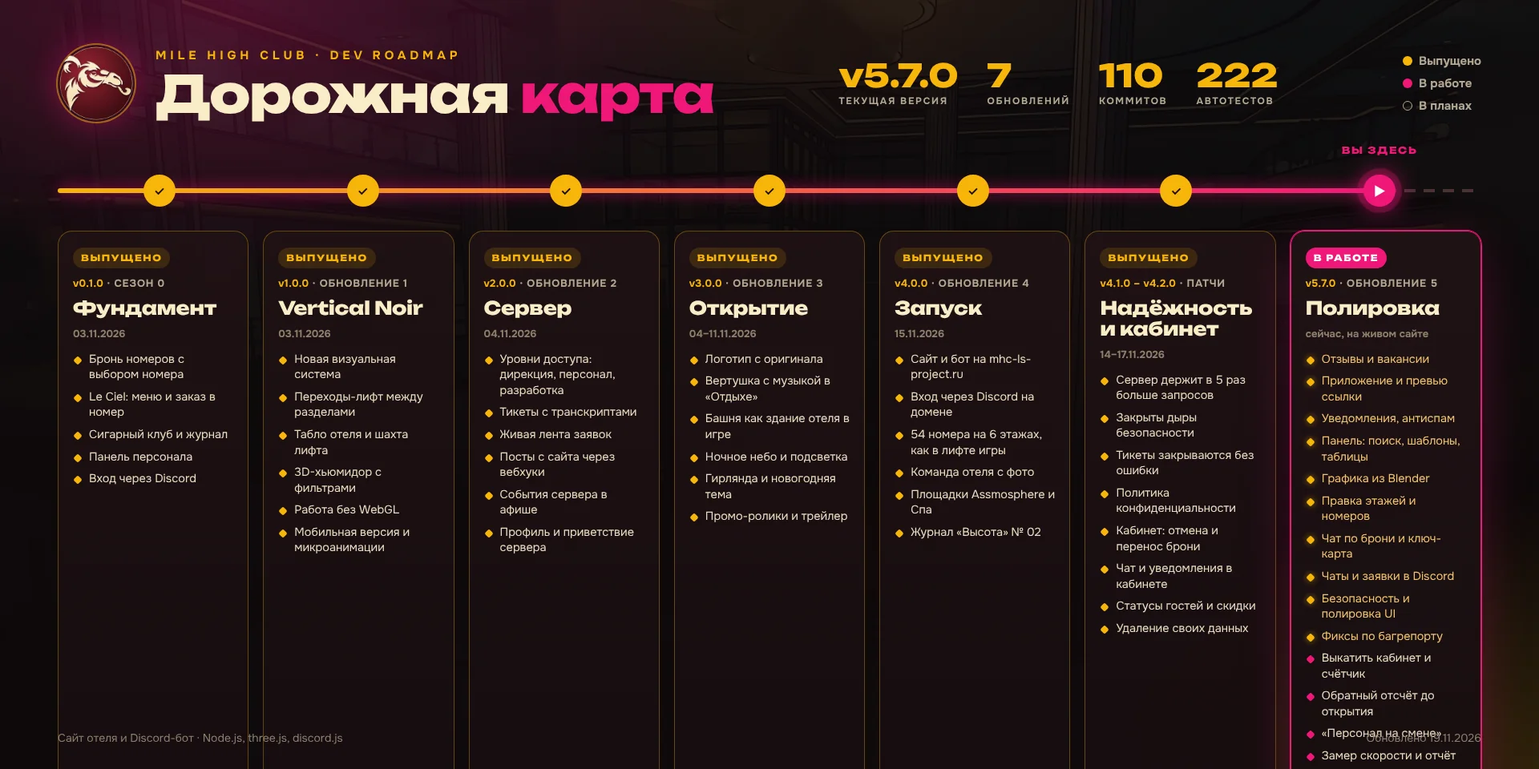
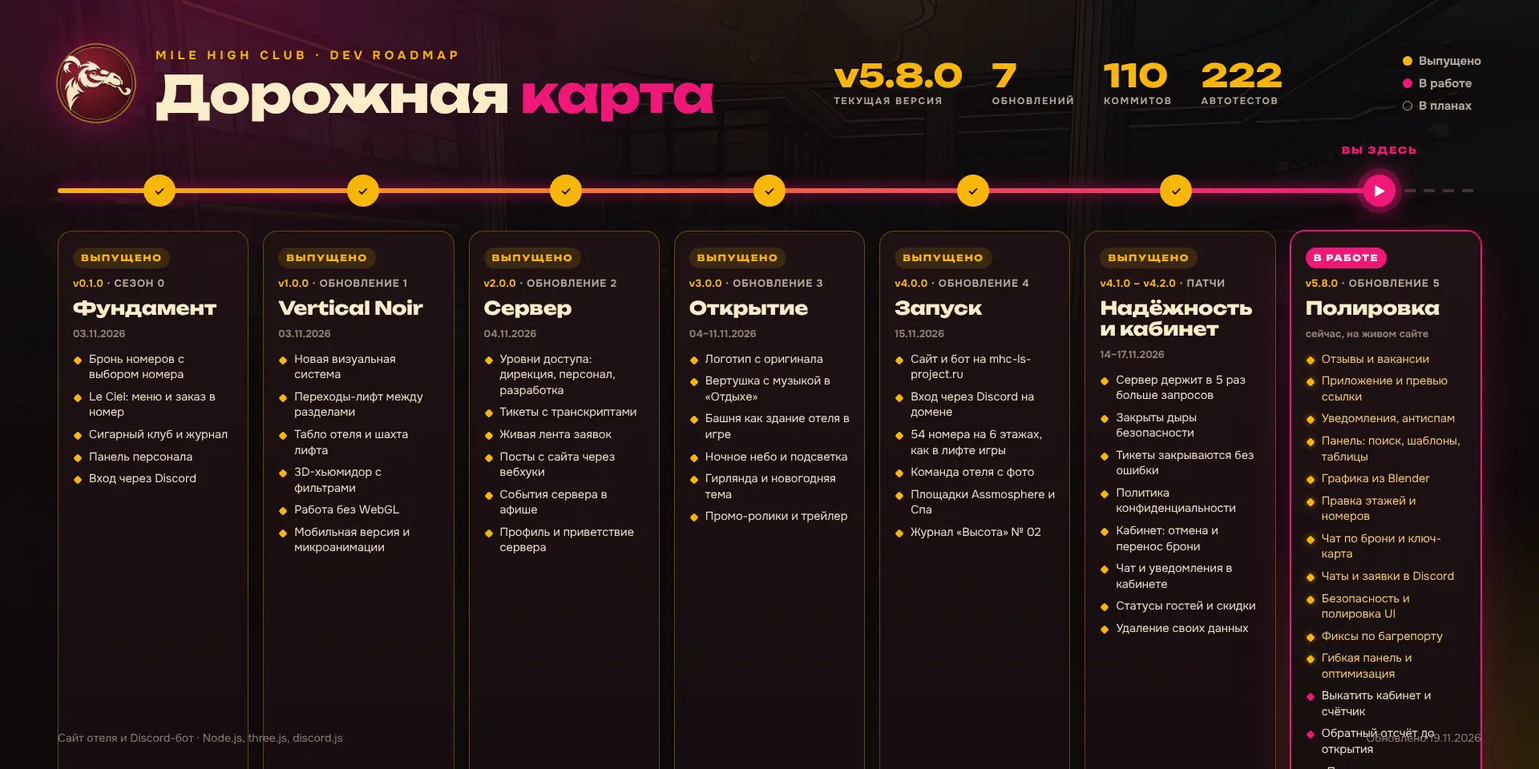
v5.8.0: доска в двух видах, окошки сайта в настройках, оптимизация загрузки
- Доска номеров: переключатель «По этажам / Колонки по статусу». Второй вид —
  изначальный канбан: карточки номеров перетаскиваются между колонками статусов,
  статус можно сменить и списком на карточке. Выбранный вид запоминается у
  администратора (localStorage).
- Настройки: администратор включает/выключает окошки сайта — погоду с
  температурой, счётчик гостей онлайн и «Свободно» в шапке. Выключенное окошко
  скрывается, данные сохраняются (новое поле settings.widgets, в PUBLIC_SETTINGS).
- Оптимизация: three.js больше не грузится на разделах без 3D (−132 КБ на Le Ciel,
  отдыхе, кабинете и др.); на главной атриум запрашивается один раз вместо двух
  (убран лишний crossOrigin у текстуры hero3d, −329 КБ).
- Тест на widgets; версия 5.8.0, README, CHANGELOG, дорожная карта.

diff --git a/public/js/admin.js b/public/js/admin.js
@@ -175,8 +175,13 @@ function bookingChat(b) {
 // «Выбрать несколько» — смена статуса сразу у группы (например, после уборки всего этажа).
 const RSC = { free: 'var(--gold)', booked: 'var(--pink)', occupied: 'var(--violet)', cleaning: '#7fb6a8', repair: 'var(--mut)' };
 let bSel = new Set(), bMulti = false, bOpen = null;
+// Вид доски запоминается у администратора в браузере: 'floors' — по этажам (шахматка), 'kanban' — колонки по статусу (как было изначально).
+function boardStyle() { try { return localStorage.getItem('mhc:boardStyle') === 'kanban' ? 'kanban' : 'floors'; } catch { return 'floors'; } }
+function setBoardStyle(v) { try { localStorage.setItem('mhc:boardStyle', v === 'kanban' ? 'kanban' : 'floors'); } catch {} }
 function board(m) {
   const T = Object.fromEntries(A.types.map(t => [t.id, t.name])), ft = sel.boardType || '', fs = sel.boardStatus || '';
+  const style = boardStyle(), kb = style === 'kanban';
+  if (kb) { bMulti = false; bOpen = null; }
   const rooms = A.rooms.filter(r => (!ft || r.type === ft));
   const shown = r => !fs || r.status === fs;
   const floors = [...new Set(rooms.map(r => r.floor))].sort((a, b) => b - a);
@@ -185,19 +190,28 @@ function board(m) {
   const SH = (() => { const used = new Set(), out = {}; for (const t of A.types) { const w = t.name.split(/[\s-]+/).filter(Boolean), c = [w.map(x => x[0]).join('').slice(0, 2).toUpperCase(), (w[0] || '').slice(0, 2), (w[0] || '').slice(0, 3), t.id.slice(0, 3)].map(x => x.charAt(0).toUpperCase() + x.slice(1)); out[t.id] = c.find(x => x && !used.has(x)) || t.id; used.add(out[t.id]); } return out; })();
   const short = id => SH[id] || id;
   bSel = new Set([...bSel].filter(id => A.rooms.some(r => r.id === id)));
-  m.innerHTML = head('Доска номеров', `${isAdmin() ? '<button class="btn sm ghost" id="bStruct">Этажи и номера</button>' : ''}<select class="inp" id="bt" style="width:190px"><option value="">Все типы</option>${A.types.map(t => `<option value="${esc(t.id)}" ${t.id === ft ? 'selected' : ''}>${esc(t.name)}</option>`).join('')}</select><button class="btn sm ${bMulti ? '' : 'ghost'}" id="bMulti">${bMulti ? 'Готово' : 'Выбрать несколько'}</button>`,
-    'Нажмите на номер, чтобы сменить статус и увидеть гостя. Номер можно перетащить на нужный статус в строке сверху. Бот в Discord сразу обновит свободные номера.') +
-    `<div class="bst" role="group" aria-label="Фильтр по статусу"><button class="bst-i ${!fs ? 'on' : ''}" data-fs=""><b class="num">${rooms.length}</b><span>Все</span></button>${Object.entries(ROOM_STATUS).map(([k, n]) => `<button class="bst-i ${fs === k ? 'on' : ''}" data-fs="${k}" data-drop="${k}" style="--sc:${RSC[k]}"><i></i><b class="num">${cnt(k)}</b><span>${n}</span></button>`).join('')}</div>
+  const styleToggle = `<div class="seg bstyle" role="group" aria-label="Вид доски"><button data-bs="floors" aria-pressed="${!kb}">По этажам</button><button data-bs="kanban" aria-pressed="${kb}">Колонки по статусу</button></div>`;
+  m.innerHTML = head('Доска номеров', `${styleToggle}${isAdmin() ? '<button class="btn sm ghost" id="bStruct">Этажи и номера</button>' : ''}<select class="inp" id="bt" style="width:190px"><option value="">Все типы</option>${A.types.map(t => `<option value="${esc(t.id)}" ${t.id === ft ? 'selected' : ''}>${esc(t.name)}</option>`).join('')}</select>${kb ? '' : `<button class="btn sm ${bMulti ? '' : 'ghost'}" id="bMulti">${bMulti ? 'Готово' : 'Выбрать несколько'}</button>`}`,
+    kb ? 'Перетащите карточку номера в другую колонку или смените статус в списке на карточке. Бот в Discord сразу обновит свободные номера.'
+       : 'Нажмите на номер, чтобы сменить статус и увидеть гостя. Номер можно перетащить на нужный статус в строке сверху. Бот в Discord сразу обновит свободные номера.') +
+    (kb
+      ? `<div class="kanban">${Object.entries(ROOM_STATUS).map(([k, n]) => { const rs = rooms.filter(r => r.status === k).sort((a, b) => String(a.id).localeCompare(String(b.id), 'ru', { numeric: true }));
+          return `<div class="col" data-drop="${k}" style="--sc:${RSC[k]}"><h4><span>${n}</span><span class="num">${rs.length}</span></h4>${rs.map(r => `<div class="rc" draggable="true" data-id="${esc(r.id)}"><b>${esc(r.id)}</b><span class="note">${esc(T[r.type] || r.type)}${r.guest ? ' · ' + esc(r.guest) : ''}</span><select class="inp sm" data-id="${esc(r.id)}" aria-label="Статус номера ${esc(r.id)}">${Object.entries(ROOM_STATUS).map(([s, sn]) => `<option value="${s}" ${s === k ? 'selected' : ''}>${sn}</option>`).join('')}</select></div>`).join('') || '<p class="note" style="margin:.2rem .3rem 0">—</p>'}</div>`; }).join('')}</div>`
+      : `<div class="bst" role="group" aria-label="Фильтр по статусу"><button class="bst-i ${!fs ? 'on' : ''}" data-fs=""><b class="num">${rooms.length}</b><span>Все</span></button>${Object.entries(ROOM_STATUS).map(([k, n]) => `<button class="bst-i ${fs === k ? 'on' : ''}" data-fs="${k}" data-drop="${k}" style="--sc:${RSC[k]}"><i></i><b class="num">${cnt(k)}</b><span>${n}</span></button>`).join('')}</div>
     ${bMulti ? `<div class="bbulk"><span><b class="num">${bSel.size}</b> выбрано</span>${Object.entries(ROOM_STATUS).map(([k, n]) => `<button class="btn sm ghost" data-bulk="${k}" ${bSel.size ? '' : 'disabled'} style="--sc:${RSC[k]}"><i class="dot"></i>${n}</button>`).join('')}<button class="btn sm ghost" id="bAll">Выбрать видимые</button><button class="btn sm ghost" id="bNone" ${bSel.size ? '' : 'disabled'}>Снять</button></div>` : ''}
     <div class="chess ${bMulti ? 'multi' : ''}">${floors.map(f => { const fr = rooms.filter(r => r.floor === f).sort((a, b) => String(a.id).localeCompare(String(b.id), 'ru', { numeric: true })), free = fr.filter(r => r.status === 'free').length;
-      return `<div class="cf"><div class="cf-h"><b class="num">${f}</b><span>этаж</span><small>${esc(roomGameFloor(A.rooms, f))}</small><small class="num">${free}/${fr.length} св.</small></div><div class="cf-r">${fr.map(r => `<button class="ch ${shown(r) ? '' : 'dim'} ${bSel.has(r.id) ? 'sel' : ''} ${bOpen === r.id ? 'open' : ''}" draggable="true" data-id="${esc(r.id)}" style="--sc:${RSC[r.status]}" title="${esc(r.id)} · ${esc(T[r.type] || r.type)} · ${ROOM_STATUS[r.status]}${r.guest ? ' · ' + esc(r.guest) : ''}" aria-label="Номер ${esc(r.id)}, ${ROOM_STATUS[r.status]}"><b class="num">${esc(r.id)}</b><span>${esc(short(r.type))}</span>${r.guest ? '<i class="g" aria-hidden="true"></i>' : ''}</button>`).join('')}</div></div>`; }).join('') || '<div class="empty">Номеров нет. Добавьте этажи в разделе «Этажи и номера».</div>'}</div>
-    <div class="legend chl">${Object.entries(ROOM_STATUS).map(([k, n]) => `<span><i style="background:${RSC[k]}"></i>${n}</span>`).join('')}<span><i class="g"></i>Есть гость</span><span class="note">Буквы — тип номера: ${A.types.map(t => `${short(t.id)} — ${esc(t.name)}`).join(', ')}</span></div>
+      return `<div class="cf"><div class="cf-h"><b class="num">${f}</b><span>этаж</span><small>${esc(roomGameFloor(A.rooms, f))}</small><small class="num">${free}/${fr.length} св.</small></div><div class="cf-r">${fr.map(r => `<button class="ch ${shown(r) ? '' : 'dim'} ${bSel.has(r.id) ? 'sel' : ''} ${bOpen === r.id ? 'open' : ''}" draggable="true" data-id="${esc(r.id)}" style="--sc:${RSC[r.status]}" title="${esc(r.id)} · ${esc(T[r.type] || r.type)} · ${ROOM_STATUS[r.status]}${r.guest ? ' · ' + esc(r.guest) : ''}" aria-label="Номер ${esc(r.id)}, ${ROOM_STATUS[r.status]}"><b class="num">${esc(r.id)}</b><span>${esc(short(r.type))}</span>${r.guest ? '<i class="g" aria-hidden="true"></i>' : ''}</button>`).join('')}</div></div>`; }).join('') || '<div class="empty">Номеров нет. Добавьте этажи в разделе «Этажи и номера».</div>'}</div>`) +
+    `<div class="legend chl">${Object.entries(ROOM_STATUS).map(([k, n]) => `<span><i style="background:${RSC[k]}"></i>${n}</span>`).join('')}<span><i class="g"></i>Есть гость</span>${kb ? '' : `<span class="note">Буквы — тип номера: ${A.types.map(t => `${short(t.id)} — ${esc(t.name)}`).join(', ')}</span>`}</div>
     <div id="bCard"></div>`;
   const set = (id, st) => run(() => api('POST', `/admin/rooms/${encodeURIComponent(id)}/status`, { status: st })).then(r => { if (r) { play('wood'); const x = A.rooms.find(q => q.id === id); if (x) { x.status = st; if (st === 'free' || st === 'cleaning') Object.assign(x, { guest: null, discord: null, bookingId: null }); } } return r; });
   $('#bt').onchange = e => { sel.boardType = e.target.value; paint(); };
   $('#bStruct') && ($('#bStruct').onclick = () => { sec = 'structure'; paintAside(); paint(); scrollTo({ top: 0 }); });
-  $('#bMulti').onclick = () => { bMulti = !bMulti; bSel.clear(); bOpen = null; paint(); };
+  $$('.bstyle [data-bs]').forEach(b => b.onclick = () => { if (b.dataset.bs !== boardStyle()) { setBoardStyle(b.dataset.bs); bMulti = false; bOpen = null; bSel.clear(); paint(); } });
+  $('#bMulti') && ($('#bMulti').onclick = () => { bMulti = !bMulti; bSel.clear(); bOpen = null; paint(); });
   $$('.bst-i').forEach(b => b.onclick = () => { sel.boardStatus = sel.boardStatus === b.dataset.fs ? '' : b.dataset.fs; paint(); });
+  // карточки канбана: перетаскивание между колонками + выбор статуса в списке
+  $$('.rc').forEach(c => { c.ondragstart = e => { e.dataTransfer.setData('text/plain', c.dataset.id); c.classList.add('drag'); }; c.ondragend = () => c.classList.remove('drag'); });
+  $$('.rc select').forEach(s => s.onchange = async () => { const r = A.rooms.find(x => x.id === s.dataset.id); if (r && s.value !== r.status) { if (await set(s.dataset.id, s.value)) paint(); else paint(); } });
   $$('.ch').forEach(c => {
     c.onclick = () => { const id = c.dataset.id; if (bMulti) { bSel.has(id) ? bSel.delete(id) : bSel.add(id); paint(); } else { bOpen = bOpen === id ? null : id; paint(); } };
     c.ondragstart = e => { e.dataTransfer.setData('text/plain', c.dataset.id); c.classList.add('drag'); }; c.ondragend = () => c.classList.remove('drag');
@@ -563,6 +577,10 @@ function settings(m) {
       <label class="field" id="spMenuF"><span>Блюдо из меню</span><select id="spMenu"><option value="">— выберите —</option>${(A.menu || []).map(d => `<option value="${esc(d.id)}">${esc(d.cat ? d.cat + ' · ' : '')}${esc(d.name)}</option>`).join('')}</select></label>
       <div class="g2" id="spCustomF"><label class="field"><span>Название</span><input id="spName" maxlength="60" placeholder="Утиная ножка конфи"></label><label class="field"><span>Цена</span><input id="spPrice" type="number" min="0" placeholder="260"></label></div>
       <label class="field" id="spDescF"><span>Описание</span><input id="spDesc" maxlength="200" placeholder="Картофель сарладез, вишнёвый соус"></label></div>
+    <div class="stack" style="gap:.5rem"><span class="lbl">Окошки на сайте</span><p class="note">Что показывать гостям в шапке и на табло. Выключенное окно просто скрывается — данные не теряются.</p>
+      <label class="check"><input type="checkbox" id="wgWeather"> Погода и температура над отелем</label>
+      <label class="check"><input type="checkbox" id="wgGuests"> Счётчик гостей онлайн</label>
+      <label class="check"><input type="checkbox" id="wgFree"> «Свободно» — свободные номера в шапке</label></div>
     <div class="stack" style="gap:.5rem"><span class="lbl">Музыка на вертушке («Отдых»)</span><p class="note">Треки mp3, ogg или m4a до 10 МБ. Играет случайный трек со случайного места. Пока треков нет, вертушка в разделе «Отдых» скрыта.</p>
       <div class="stack" id="trkBox" style="gap:.4rem"></div><div class="row"><label class="btn sm ghost" style="cursor:pointer">${I.plus} Загрузить треки<input type="file" id="trkUp" accept="audio/mpeg,audio/ogg,audio/mp4,.mp3,.ogg,.m4a" multiple hidden></label></div></div>
     <p class="note">Роли, которые дают доступ к панели, выбираются в разделе Discord.</p><div><button class="btn">Сохранить</button></div></form>`;
@@ -571,6 +589,7 @@ function settings(m) {
     if (sp.mode === 'custom') { $('#spName').value = sp.name || ''; $('#spDesc').value = sp.desc || ''; $('#spPrice').value = sp.price || ''; }
     const upd = () => { const mv = $('#spMode').value; $('#spMenuF').hidden = mv !== 'menu'; $('#spCustomF').hidden = $('#spDescF').hidden = mv !== 'custom'; };
     $('#spMode').onchange = upd; upd(); })();
+  (() => { const w = s.widgets || {}; $('#wgWeather').checked = w.weather !== false; $('#wgGuests').checked = w.guests !== false; $('#wgFree').checked = w.free !== false; })();
   let tpls = (A.replyTemplates?.length ? A.replyTemplates : DEFAULT_REPLIES).map(t => ({ ...t }));
   const paintTpl = () => { $('#tplBox').innerHTML = tpls.map((t, i) => `<div class="tplrow"><input class="inp" data-tt="${i}" value="${esc(t.title)}" placeholder="Название"><textarea class="inp" data-tx="${i}" rows="2" placeholder="Текст ответа">${esc(t.text)}</textarea><button type="button" class="btn sm ghost" data-tdel="${i}" aria-label="Удалить шаблон">${I.trash}</button></div>`).join('');
     $$('#tplBox [data-tt]').forEach(x => x.oninput = () => { tpls[+x.dataset.tt].title = x.value; }); $$('#tplBox [data-tx]').forEach(x => x.oninput = () => { tpls[+x.dataset.tx].text = x.value; });
@@ -584,7 +603,7 @@ function settings(m) {
   $('#trkUp').onchange = async e => { const files = [...e.target.files]; if (!files.length) return; const r = await run(() => upload(files)); e.target.value = '';
     const got = (r || []).filter(x => /\.(mp3|ogg|m4a)$/i.test(x.url)); if (!got.length) return toast('Не получилось загрузить. Нужны mp3, ogg или m4a до 10 МБ', 'err');
     got.forEach(x => tracks.push({ url: x.url, title: String(x.name || '').replace(/\.[^.]+$/, '') })); paintTracks(); toast(`Загружено треков: ${got.length}. Не забудьте сохранить настройки`); };
-  $('#sF').onsubmit = async e => { e.preventDefault(); const body = { ...readFields(F), replyTemplates: tpls.filter(t => t.title.trim() && t.text.trim()), deckTracks: tracks, special: (() => { const mv = $('#spMode').value; return mv === 'menu' ? { mode: 'menu', menuId: $('#spMenu').value } : mv === 'custom' ? { mode: 'custom', name: $('#spName').value, desc: $('#spDesc').value, price: +$('#spPrice').value || 0 } : { mode: 'auto' }; })(), tiers: $$('#tiersBox .tier-row').map(r => Object.fromEntries([...r.querySelectorAll('[data-t]')].map(i => [i.dataset.t, i.value]))).filter(t => t.name.trim()) }; if (await run(() => api('PUT', '/admin/settings/main', body), 'Настройки сохранены')) { await load(); ctx.reloadPublic?.(); } };
+  $('#sF').onsubmit = async e => { e.preventDefault(); const body = { ...readFields(F), replyTemplates: tpls.filter(t => t.title.trim() && t.text.trim()), deckTracks: tracks, special: (() => { const mv = $('#spMode').value; return mv === 'menu' ? { mode: 'menu', menuId: $('#spMenu').value } : mv === 'custom' ? { mode: 'custom', name: $('#spName').value, desc: $('#spDesc').value, price: +$('#spPrice').value || 0 } : { mode: 'auto' }; })(), widgets: { weather: $('#wgWeather').checked, guests: $('#wgGuests').checked, free: $('#wgFree').checked }, tiers: $$('#tiersBox .tier-row').map(r => Object.fromEntries([...r.querySelectorAll('[data-t]')].map(i => [i.dataset.t, i.value]))).filter(t => t.name.trim()) }; if (await run(() => api('PUT', '/admin/settings/main', body), 'Настройки сохранены')) { await load(); ctx.reloadPublic?.(); } };
 }
 function danger(m) {
   m.innerHTML = head('Сброс данных', '', 'Используйте, чтобы начать с чистого листа: например, после тестов.') + `<div class="danger"><h3 style="font-size:1.05rem;color:var(--bad)">Сбросить статистику</h3>

diff --git a/public/js/main.js b/public/js/main.js
@@ -58,10 +58,12 @@ function paintNav() {
   const lx = S.items?.profile?.lifex, ava = lx?.avatar || u?.avatar;
   $('#navUser').innerHTML = u || ava ? `<button class="ibtn" id="userBtn" aria-label="${u ? 'Профиль' : 'Мои брони'}" style="overflow:hidden;padding:0">${ava ? `<img class="avatar" src="${esc(ava)}" alt="">` : `<span class="avatar">${esc((u.username || '?')[0])}</span>`}</button>` : `<button class="ibtn" id="userBtn" aria-label="Мои брони и вход">${I.user}</button>`;
   $('#userBtn').onclick = () => location.hash = u && u.role !== 'guest' ? '#admin' : '#me';
-  if (S.pub) { const f = S.pub.rooms.filter(r => r.status === 'free').length; { const nf = $('#navFree'), val = `${f}/${S.pub.rooms.length}`; if (nf.textContent !== val) { const had = nf.textContent !== '—'; nf.textContent = val; if (had) { nf.classList.remove('tick'); void nf.offsetWidth; nf.classList.add('tick'); } } } $('#foot').textContent = S.pub.settings.footer || ''; paintGuests(); }
+  if (S.pub) { const f = S.pub.rooms.filter(r => r.status === 'free').length; { const nf = $('#navFree'), fp = nf.closest('.pill'); if (fp) fp.hidden = !wOn('free'); const val = `${f}/${S.pub.rooms.length}`; if (nf.textContent !== val) { const had = nf.textContent !== '—'; nf.textContent = val; if (had) { nf.classList.remove('tick'); void nf.offsetWidth; nf.classList.add('tick'); } } } $('#foot').textContent = S.pub.settings.footer || ''; paintGuests(); }
 }
 // сайт всегда в ночной теме: тёмный интерфейс, ночной отель и ночное небо
 function mode() { return 'night'; }
+// окошки сайта (погода, онлайн-гости, свободно) можно скрыть в настройках; по умолчанию показаны
+function wOn(k) { return S.pub?.settings?.widgets?.[k] !== false; }
 // погода: фон страницы, главный экран, 3D-башня и значок в шапке
 const WXI = { clear: '<svg viewBox="0 0 24 24" fill="none" stroke="currentColor" stroke-width="2" stroke-linecap="round"><circle cx="12" cy="12" r="4"/><path d="M12 2v2M12 20v2M4.9 4.9l1.4 1.4M17.7 17.7l1.4 1.4M2 12h2M20 12h2M4.9 19.1l1.4-1.4M17.7 6.3l1.4-1.4"/></svg>',
   night: '<svg viewBox="0 0 24 24" fill="none" stroke="currentColor" stroke-width="2" stroke-linecap="round"><path d="M21 12.8A9 9 0 1 1 11.2 3a7 7 0 0 0 9.8 9.8z"/></svg>',
@@ -76,8 +78,8 @@ function applyWeather() {
   if (!w.newyear && garland?.destroy) { garland.destroy(); garland = null; }
   if (!wxBg && $('#wxBg')) wxBg = mountWeather($('#wxBg'), { strength: .55 });
   wxBg?.set(w.kind, m === 'day'); mods.heroWx?.set(w.kind, m === 'day'); mods.hero?.setWeather?.(w.kind); mods.tower?.setWeather?.(w);
-  const c = $('#wxChip'); if (c) c.innerHTML = `${w.kind === 'clear' && m === 'night' ? WXI.night : WXI[w.kind]}<b class="num">${w.temp > 0 ? '+' : w.temp < 0 ? '−' : ''}${Math.abs(w.temp)}°</b><span class="t">${hhmm(Date.now())}</span>`;
-  const wt = $('#wxTile'); if (wt) wt.textContent = `${w.label}, ${w.temp > 0 ? '+' : w.temp < 0 ? '−' : ''}${Math.abs(w.temp)}° · ${m === 'day' ? 'день' : 'ночь'}`;
+  const c = $('#wxChip'); if (c) { c.hidden = !wOn('weather'); c.innerHTML = `${w.kind === 'clear' && m === 'night' ? WXI.night : WXI[w.kind]}<b class="num">${w.temp > 0 ? '+' : w.temp < 0 ? '−' : ''}${Math.abs(w.temp)}°</b><span class="t">${hhmm(Date.now())}</span>`; }
+  const wt = $('#wxTile'); if (wt) wt.textContent = wOn('weather') ? `${w.label}, ${w.temp > 0 ? '+' : w.temp < 0 ? '−' : ''}${Math.abs(w.temp)}° · ${m === 'day' ? 'день' : 'ночь'}` : (m === 'day' ? 'День' : 'Ночь');
 }
 function applyMode() { const m = mode(); if (document.documentElement.dataset.mode !== m) { document.documentElement.dataset.mode = m; mods.tower?.relight?.(); mods.hum?.relight?.(); if (current === 'home') renderHome(); } paintNav(); applyWeather(); }
 function onScroll() { }
@@ -163,7 +165,7 @@ const flapPrev = new Map();
 // «Гостей в отеле»: сколько человек сейчас в отеле и сколько в гостевой книге. Источник — онлайн сервера отеля (IC-подача)
 function guestNote(g) { return `${g.total} ${plural(g.total, 'участник', 'участника', 'участников')} в Discord · ${g.online} онлайн`; }
 function paintGuests() {
-  const g = S.pub?.guests, pill = $('#navGuests'); if (pill) pill.hidden = !g; if (!g) return;
+  const g = S.pub?.guests, pill = $('#navGuests'); if (pill) pill.hidden = !g || !wOn('guests'); if (!g || !wOn('guests')) return;
   const n = $('#navG'), val = String(g.online); if (n && n.textContent !== val) { const had = n.textContent !== '—'; n.textContent = val; if (had) { n.classList.remove('tick'); void n.offsetWidth; n.classList.add('tick'); } }
   if (pill) pill.title = `${g.online} ${plural(g.online, 'гость', 'гостя', 'гостей')} в отеле прямо сейчас`;
   const v = $('#fbGv'); if (v) { v.innerHTML = flap('guests', val); $('#fbGs').textContent = guestNote(g); }
@@ -216,7 +218,7 @@ function renderHome() {
     <section class="fboard" aria-label="Табло отеля">
       <div class="fb-head"><span class="eyebrow">Табло отеля</span><span class="fb-live"><span class="d"></span>Обновляется вживую</span></div>
       <div class="fb-rows">
-      ${p.guests ? `<div class="fb-row" data-st="guests" id="fbGuests"><span class="fb-k">Гостей в отеле</span><span class="fb-v" id="fbGv">${flap('guests', String(p.guests.online))}</span><span class="fb-s" id="fbGs">${guestNote(p.guests)}</span></div>` : ''}
+      ${p.guests && wOn('guests') ? `<div class="fb-row" data-st="guests" id="fbGuests"><span class="fb-k">Гостей в отеле</span><span class="fb-v" id="fbGv">${flap('guests', String(p.guests.online))}</span><span class="fb-s" id="fbGs">${guestNote(p.guests)}</span></div>` : ''}
       <a class="fb-row" href="#stay" data-st="${free ? 'open' : 'closed'}"><span class="fb-k">Номера</span><span class="fb-v">${flap('rooms', `${free}/${p.rooms.length}`)}</span><span class="fb-s">${free ? 'свободно прямо сейчас' : 'все номера заняты'}</span></a>
       ${p.venues.map(v => ({ v, st: venueState(v, p.events) })).sort((a, b) => (RANK[a.st.state] ?? 9) - (RANK[b.st.state] ?? 9)).map(({ v, st }) => `<a class="fb-row" href="#${venueRoute(v)}" data-venue="${esc(v.id)}" data-st="${st.state}"><span class="fb-k">${esc(v.name)}</span><span class="fb-v">${flap('v-' + v.id, FLAP_WORD[st.state] || FLAP_WORD.open)}</span><span class="fb-s">${esc(st.label || '')}${st.state !== 'event' && st.state !== 'soon' && st.state !== 'closed' ? ' · ' + nextChange(v) : ''}</span></a>`).join('')}
       <div class="fb-row" data-st="clock"><span class="fb-k">Время в отеле</span><span class="fb-v" id="clock">${flap('clock', hhmm(Date.now()))}</span><span class="fb-s" id="wxTile">${wxNow ? '' : (m === 'day' ? 'День' : 'Ночь')}</span></div>
@@ -1147,7 +1149,8 @@ async function boot() {
     // логотип грузит заставка (<img> в index.html), атриум — CSS-фон и hero3d: отдельная предзагрузка только дублировала запросы
     let done = 0; const jobs = [document.fonts?.ready].map(p => Promise.resolve(p).catch(() => {}).then(() => set(95)));
     // 3D-модуль грузится параллельно и заставку не держит: атриум показывается картинкой и оживает, когда WebGL готов
-    if (hasWebGL()) ((location.hash || '#home') === '#home' ? import('./hero3d.js') : import('three')).catch(() => {});
+    // прогреваем только тот 3D-модуль, что нужен открытой странице: на разделах без 3D (Le Ciel, отдых, кабинет…) three.js больше не качается впустую
+    if (hasWebGL()) { const h = (location.hash || '#home').slice(1).split('?')[0].split('/')[0]; const mod3d = { home: './hero3d.js', stay: './skyline3d.js', cigars: './humidor3d.js' }[h]; if (mod3d) import(mod3d).catch(() => {}); }
     // картинки и шрифты — украшение: если телефон их не отдал быстро, страница всё равно показывается
     // (раньше при повторном открытии без заставки ожидание было бесконечным — видны были только шапка и фон)
     await Promise.race([Promise.all(jobs), new Promise(r => setTimeout(r, 2500))]);

diff --git a/docs/roadmap/roadmap.html b/docs/roadmap/roadmap.html
@@ -58,7 +58,7 @@ li.ok::before{background:var(--gold)}
 <div class="bgimg"></div><div class="glow"></div>
 <div class="wrap">
 <header><img src="../../public/img/emblem.webp" alt=""><div><div class="eb">Mile High Club · dev roadmap</div><h1>Дорожная <span>карта</span></h1></div>
-<div class="stats"><div><span class="big" data-current>v5.7.0</span><small>текущая версия</small></div><div><span class="big">7</span><small>обновлений</small></div><div><span class="big">110</span><small>коммитов</small></div><div><span class="big">222</span><small>автотестов</small></div></div>
+<div class="stats"><div><span class="big" data-current>v5.8.0</span><small>текущая версия</small></div><div><span class="big">7</span><small>обновлений</small></div><div><span class="big">110</span><small>коммитов</small></div><div><span class="big">222</span><small>автотестов</small></div></div>
 <div class="legend"><span><i style="background:var(--gold)"></i>Выпущено</span><span><i style="background:var(--pink)"></i>В работе</span><span><i style="border:1.5px solid var(--mut)"></i>В планах</span></div></header>
 
 <div class="track"><div class="rail"></div><div class="prog" style="--p:92.86"></div>
@@ -83,7 +83,7 @@ li.ok::before{background:var(--gold)}
 <div class="c done"><span class="tag">ВЫПУЩЕНО</span><div class="ver"><b>v4.1.0 – v4.2.0</b> · ПАТЧИ</div><h2>Надёжность и кабинет</h2><div class="date">14–17.11.2026</div><ul>
 <li>Сервер держит в 5 раз больше запросов</li><li>Закрыты дыры безопасности</li><li>Тикеты закрываются без ошибки</li><li>Политика конфиденциальности</li><li>Кабинет: отмена и перенос брони</li><li>Чат и уведомления в кабинете</li><li>Статусы гостей и скидки</li><li>Удаление своих данных</li></ul></div>
 
-<div class="c now"><span class="tag">В РАБОТЕ</span><div class="ver"><b data-current>v5.7.0</b> · ОБНОВЛЕНИЕ 5</div><h2>Полировка</h2><div class="date">сейчас, на живом сайте</div><ul>
-<li class="ok">Отзывы и вакансии</li><li class="ok">Приложение и превью ссылки</li><li class="ok">Уведомления, антиспам</li><li class="ok">Панель: поиск, шаблоны, таблицы</li><li class="ok">Графика из Blender</li><li class="ok">Правка этажей и номеров</li><li class="ok">Чат по брони и ключ-карта</li><li class="ok">Чаты и заявки в Discord</li><li class="ok">Безопасность и полировка UI</li><li class="ok">Фиксы по багрепорту</li><li>Выкатить кабинет и счётчик</li><li>Обратный отсчёт до открытия</li><li>«Персонал на смене»</li><li>Замер скорости и отчёт</li><li>Подключить LifeX</li></ul></div>
+<div class="c now"><span class="tag">В РАБОТЕ</span><div class="ver"><b data-current>v5.8.0</b> · ОБНОВЛЕНИЕ 5</div><h2>Полировка</h2><div class="date">сейчас, на живом сайте</div><ul>
+<li class="ok">Отзывы и вакансии</li><li class="ok">Приложение и превью ссылки</li><li class="ok">Уведомления, антиспам</li><li class="ok">Панель: поиск, шаблоны, таблицы</li><li class="ok">Графика из Blender</li><li class="ok">Правка этажей и номеров</li><li class="ok">Чат по брони и ключ-карта</li><li class="ok">Чаты и заявки в Discord</li><li class="ok">Безопасность и полировка UI</li><li class="ok">Фиксы по багрепорту</li><li class="ok">Гибкая панель и оптимизация</li><li>Выкатить кабинет и счётчик</li><li>Обратный отсчёт до открытия</li><li>«Персонал на смене»</li><li>Замер скорости и отчёт</li><li>Подключить LifeX</li></ul></div>
 </div></div>
 <div class="foot"><span>Сайт отеля и Discord-бот · Node.js, three.js, discord.js</span><span>Обновлено 19.11.2026</span></div>

diff --git a/public/js/core.js b/public/js/core.js
@@ -36,7 +36,7 @@ const EDITABLE = {
 };
 // Отправители постов в Discord: имя и аватарка вебхука
 const DEFAULT_SENDERS = [['concierge', '🛎 Консьерж MHC', '#F7B50A'], ['reception', '🔑 Ресепшен MHC', '#F0177A'], ['manager', '🥂 Управляющий MHC', '#EF5617'], ['journal', '📰 Журнал «Высота»', '#F4D9A0']].map(([id, name, color], order) => ({ id, name, color, avatar: `img/discord/${id}.png`, order }));
-const PUBLIC_SETTINGS = ['tiers', 'deckTracks', 'weather', 'theme', 'hotelName', 'tagline', 'heroDay', 'heroNight', 'discordInvite', 'dayStart', 'nightStart', 'address', 'footer', 'special'];
+const PUBLIC_SETTINGS = ['tiers', 'deckTracks', 'weather', 'theme', 'hotelName', 'tagline', 'heroDay', 'heroNight', 'discordInvite', 'dayStart', 'nightStart', 'address', 'footer', 'special', 'widgets'];
 
 export class HttpError extends Error { constructor(status, message) { super(message); this.status = status; } }
 const bad = m => { throw new HttpError(400, m); };
@@ -544,6 +544,7 @@ export function createCore(store, hooks = {}) {
     if (col === 'senders') { pick('name', S(80)); pick('avatar', U(400)); pick('color', v => /^#[0-9a-f]{6}$/i.test(v || '') ? v : '#F0177A'); pick('order', N); }
     if (col === 'settings') { if ('replyTemplates' in b) o.replyTemplates = (Array.isArray(b.replyTemplates) ? b.replyTemplates : []).slice(0, 20).map(t => ({ title: str(t?.title, 40), text: str(t?.text, 600) })).filter(t => t.title && t.text); if ('deckTracks' in b) o.deckTracks = (Array.isArray(b.deckTracks) ? b.deckTracks : []).slice(0, 30).map(t => ({ url: str(t?.url, 200), title: str(t?.title, 80) })).filter(t => /^\/uploads\/[a-f0-9]{16}\.(mp3|ogg|m4a)$/.test(t.url)); if ('tiers' in b) o.tiers = (Array.isArray(b.tiers) ? b.tiers : []).slice(0, 6).map(t => ({ name: str(t.name, 30), nights: Math.max(1, Math.round(num(t.nights, 1))), discount: Math.min(50, Math.max(0, Math.round(num(t.discount, 0)))), perk: str(t.perk, 120) })).filter(t => t.name); for (const k of ['hotelName', 'tagline', 'address', 'footer']) pick(k, S(400)); for (const k of ['heroDay', 'heroNight', 'discordInvite', 'deckUrl']) pick(k, U(400)); pick('staffExtras', B); pick('dayStart', N); pick('nightStart', N); pick('weather', v => ['auto', 'clear', 'rain', 'fog', 'snow'].includes(v) ? v : 'auto'); pick('theme', v => v === 'newyear' ? 'newyear' : 'none'); if ('special' in b) { const sp = b.special || {}; const mode = ['auto', 'menu', 'custom'].includes(sp.mode) ? sp.mode : 'auto';
       o.special = mode === 'menu' ? { mode, menuId: str(sp.menuId, 40) } : mode === 'custom' ? { mode, name: str(sp.name, 60), desc: str(sp.desc, 200), price: Math.max(0, Math.round(num(sp.price, 0))) } : { mode: 'auto' }; }
+      if ('widgets' in b) { const w = b.widgets && typeof b.widgets === 'object' ? b.widgets : {}; o.widgets = { weather: w.weather !== false, guests: w.guests !== false, free: w.free !== false }; }
     if (b.channels && typeof b.channels === 'object') o.channels = Object.fromEntries(Object.entries(b.channels).slice(0, 80).map(([k, v]) => [str(k, 30), str(v, 30)])); if (b.roles && typeof b.roles === 'object') o.roles = Object.fromEntries(Object.entries(b.roles).slice(0, 10).map(([k, v]) => [str(k, 30), str(v, 200)])); }
     return o;
   }

diff --git a/public/css/app.css b/public/css/app.css
@@ -518,6 +518,11 @@ footer .wrap{display:flex;justify-content:space-between;gap:1rem;flex-wrap:wrap;
 .rc:active{cursor:grabbing}
 .rc.drag{opacity:.4}
 .rc b{font:800 .95rem var(--display)}
+.rc .note{font-size:.72rem;line-height:1.25}
+.rc select{width:100%;margin-top:.1rem;min-height:2rem;padding:.25rem .4rem;font-size:.76rem}
+.col{position:relative}
+.col[style*="--sc"] h4{color:var(--fg)}
+.col h4 .num{color:var(--sc,var(--mut))}
 .tbl{width:100%;border-collapse:collapse;font-size:.88rem}
 .tbl th{text-align:left;font:800 .66rem var(--body);letter-spacing:.14em;text-transform:uppercase;color:var(--mut);padding:.5rem;border-bottom:1px solid var(--line)}
 .tbl td{padding:.45rem .5rem;border-bottom:1px solid var(--line);vertical-align:middle}

diff --git a/public/js/hero3d.js b/public/js/hero3d.js
@@ -58,7 +58,7 @@ export function mountHero(canvas, section) {
   ['uFar', 'uImg', 'uMask'].forEach((n, i) => gl.uniform1i(U(n), i));
   const texs = [0, 1, 2].map(() => gl.createTexture());
   const load = (unit, url, mip = true) => new Promise((res, rej) => {
-    const im = new Image(); im.crossOrigin = 'anonymous'; im.decoding = 'async';
+    const im = new Image(); im.decoding = 'async';
     im.onload = () => {
       gl.activeTexture(gl.TEXTURE0 + unit); gl.bindTexture(gl.TEXTURE_2D, texs[unit]);
       gl.texImage2D(gl.TEXTURE_2D, 0, gl.RGB, gl.RGB, gl.UNSIGNED_BYTE, im);

diff --git a/README.md b/README.md
@@ -6,7 +6,7 @@
 
 **Сайт отеля над Лос-Сантосом и Discord-бот для GTA RP**
 
-Текущая версия: **<!--ver-->v5.7.0<!--/ver-->**
+Текущая версия: **<!--ver-->v5.8.0<!--/ver-->**
 
 Бронь номеров на 3D-башне · Le Ciel и заказ в номер · сигарный клуб · журнал · обращения с тикетами в Discord · панель персонала
 
@@ -17,6 +17,12 @@
 ![Главная: атриум отеля](docs/img/home.webp)
 
 ## Последнее обновление
+
+**v5.8.0 · Обновление 6 «Гибкая панель» · 19.11.2026**
+
+- **Доска номеров — два вида:** переключатель «По этажам / Колонки по статусу». Первый — текущая шахматка по этажам, второй — изначальная доска-канбан: карточки номеров тянутся между колонками статусов. Выбранный вид запоминается у администратора в браузере.
+- **Окошки сайта в настройках:** администратор включает и выключает погоду с температурой, счётчик гостей онлайн и окно «Свободно» в шапке. Выключенное окошко просто скрывается, данные не теряются.
+- **Оптимизация:** на разделах без 3D (Le Ciel, отдых, кабинет) больше не скачивается three.js (−132 КБ), на главной атриум грузится один раз вместо двух (−329 КБ).
 
 **v5.7.0 · Обновление 5 «Полировка» · 19.11.2026**
 

diff --git a/CHANGELOG.md b/CHANGELOG.md
@@ -7,6 +7,7 @@
 Номер версии хранится в `package.json` и виден на сайте (подвал) и в панели персонала. Новая версия — `npm run release -- patch|minor|major "Название"`.
 
 <!--versions-->
+- **v5.8.0** · 19.11.2026 · Доска: вид по этажам или колонки по статусу, окошки сайта в настройках, оптимизация
 - **v5.7.0** · 19.11.2026 · Фиксы по багрепорту: вертушка, прогрузка, блюдо дня, доска, шапка, LifeX, счётчик Discord
 - **v5.6.0** · 18.11.2026 · Безопасность (SSRF), мост чатов и заявок в Discord, доработка дизайна
 - **v5.5.0** · 18.11.2026 · Бронь: чат гостя с отелем, ключ-карта, путь гостя по брони
